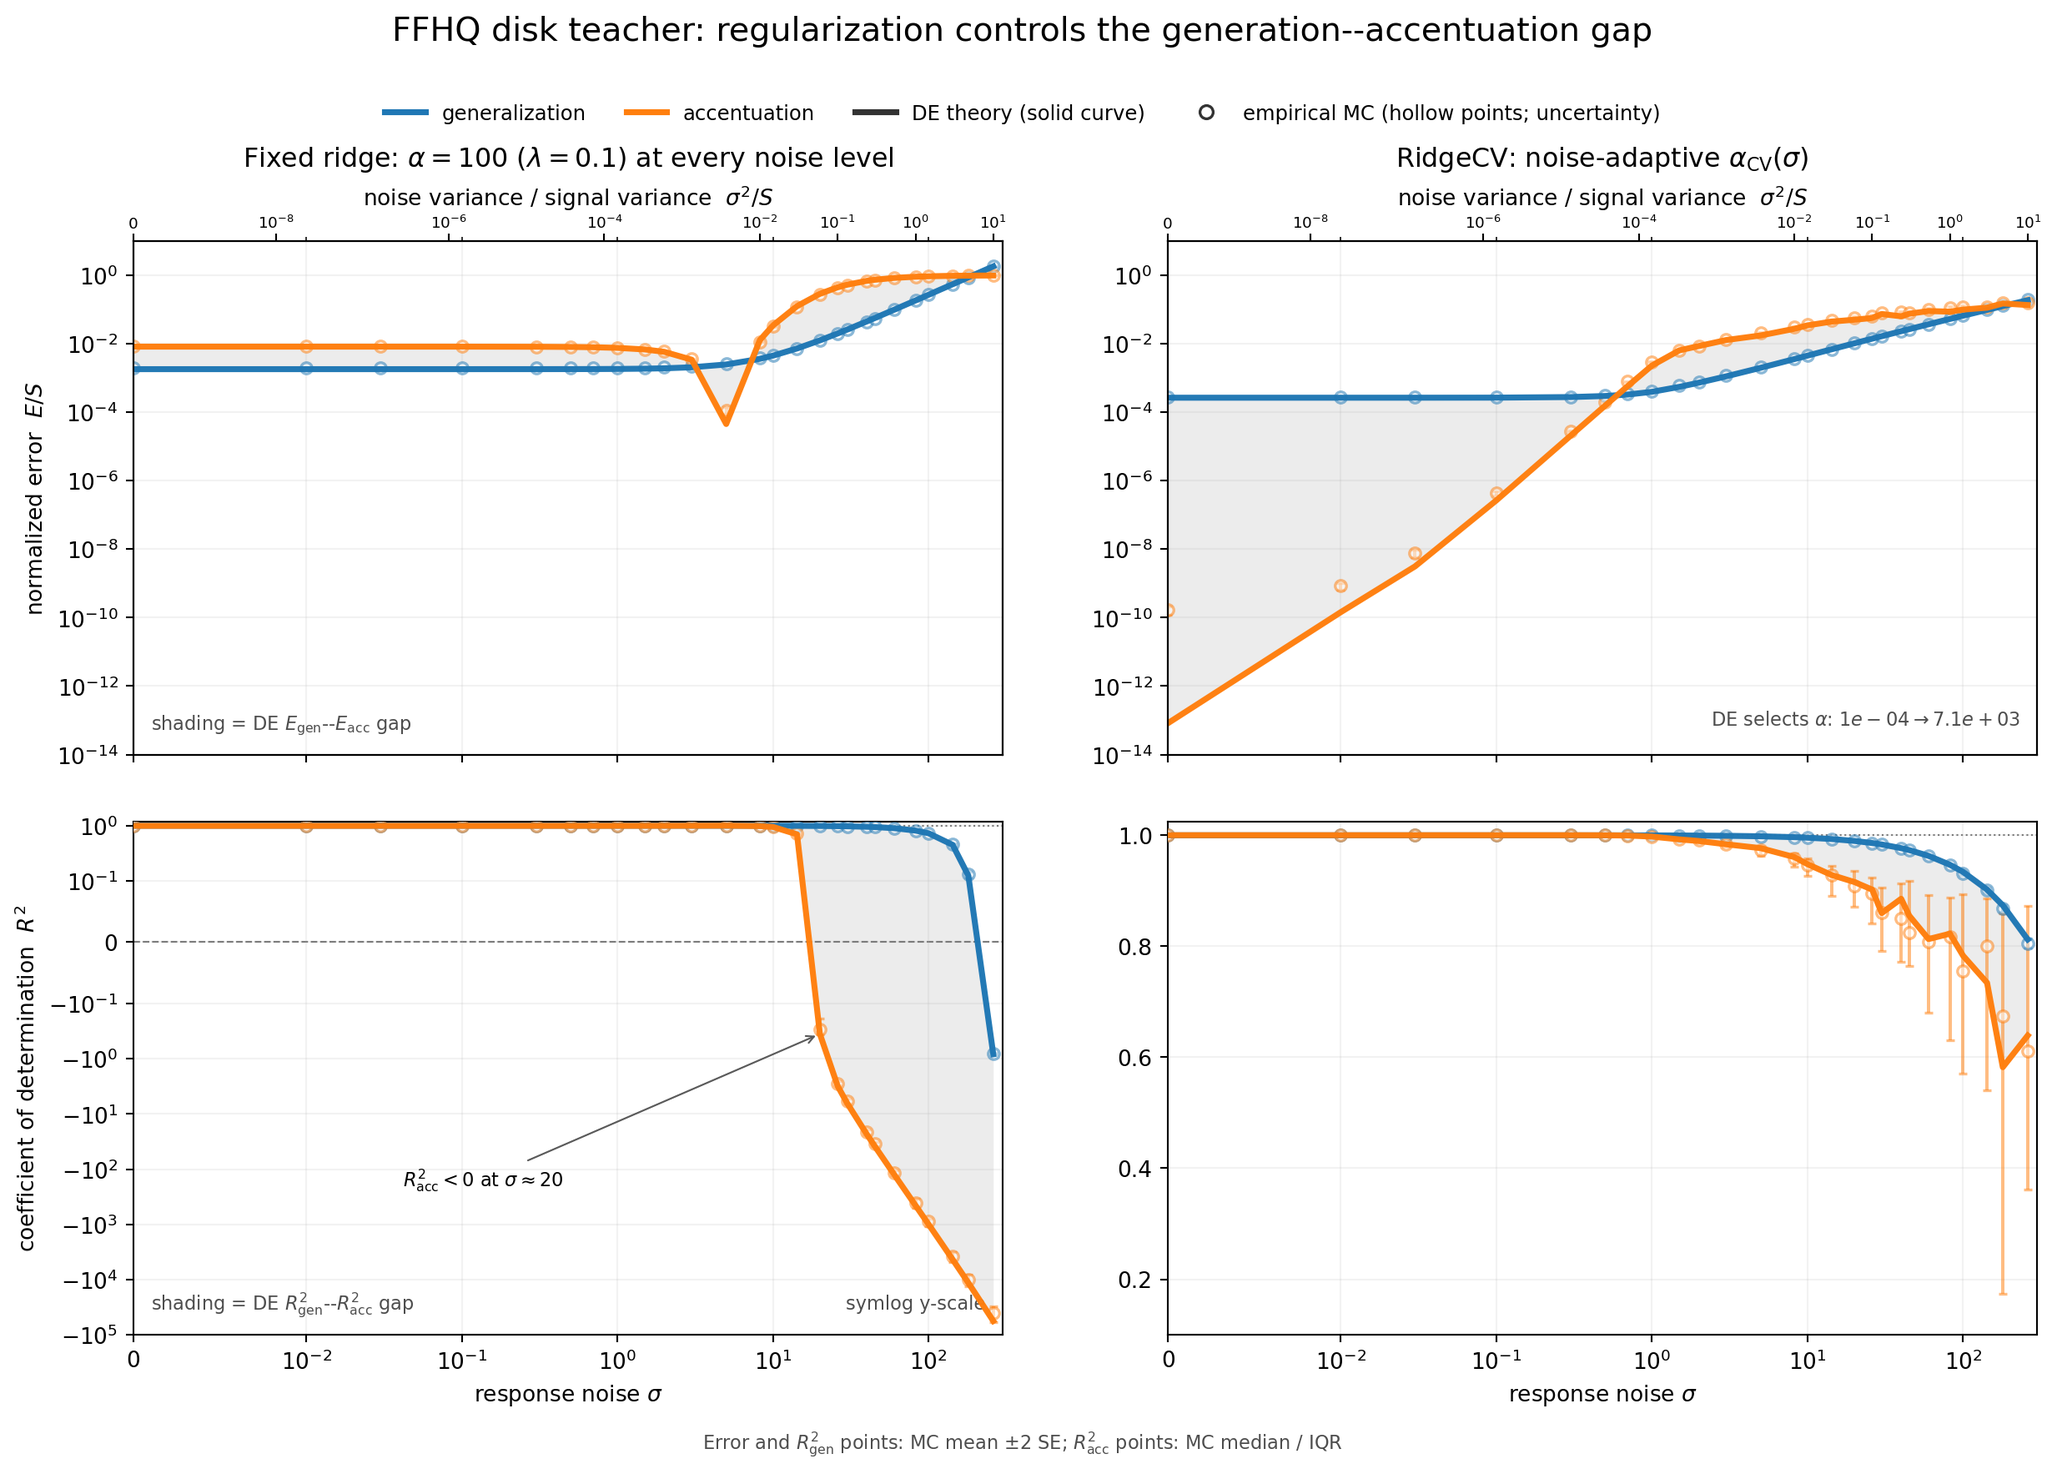
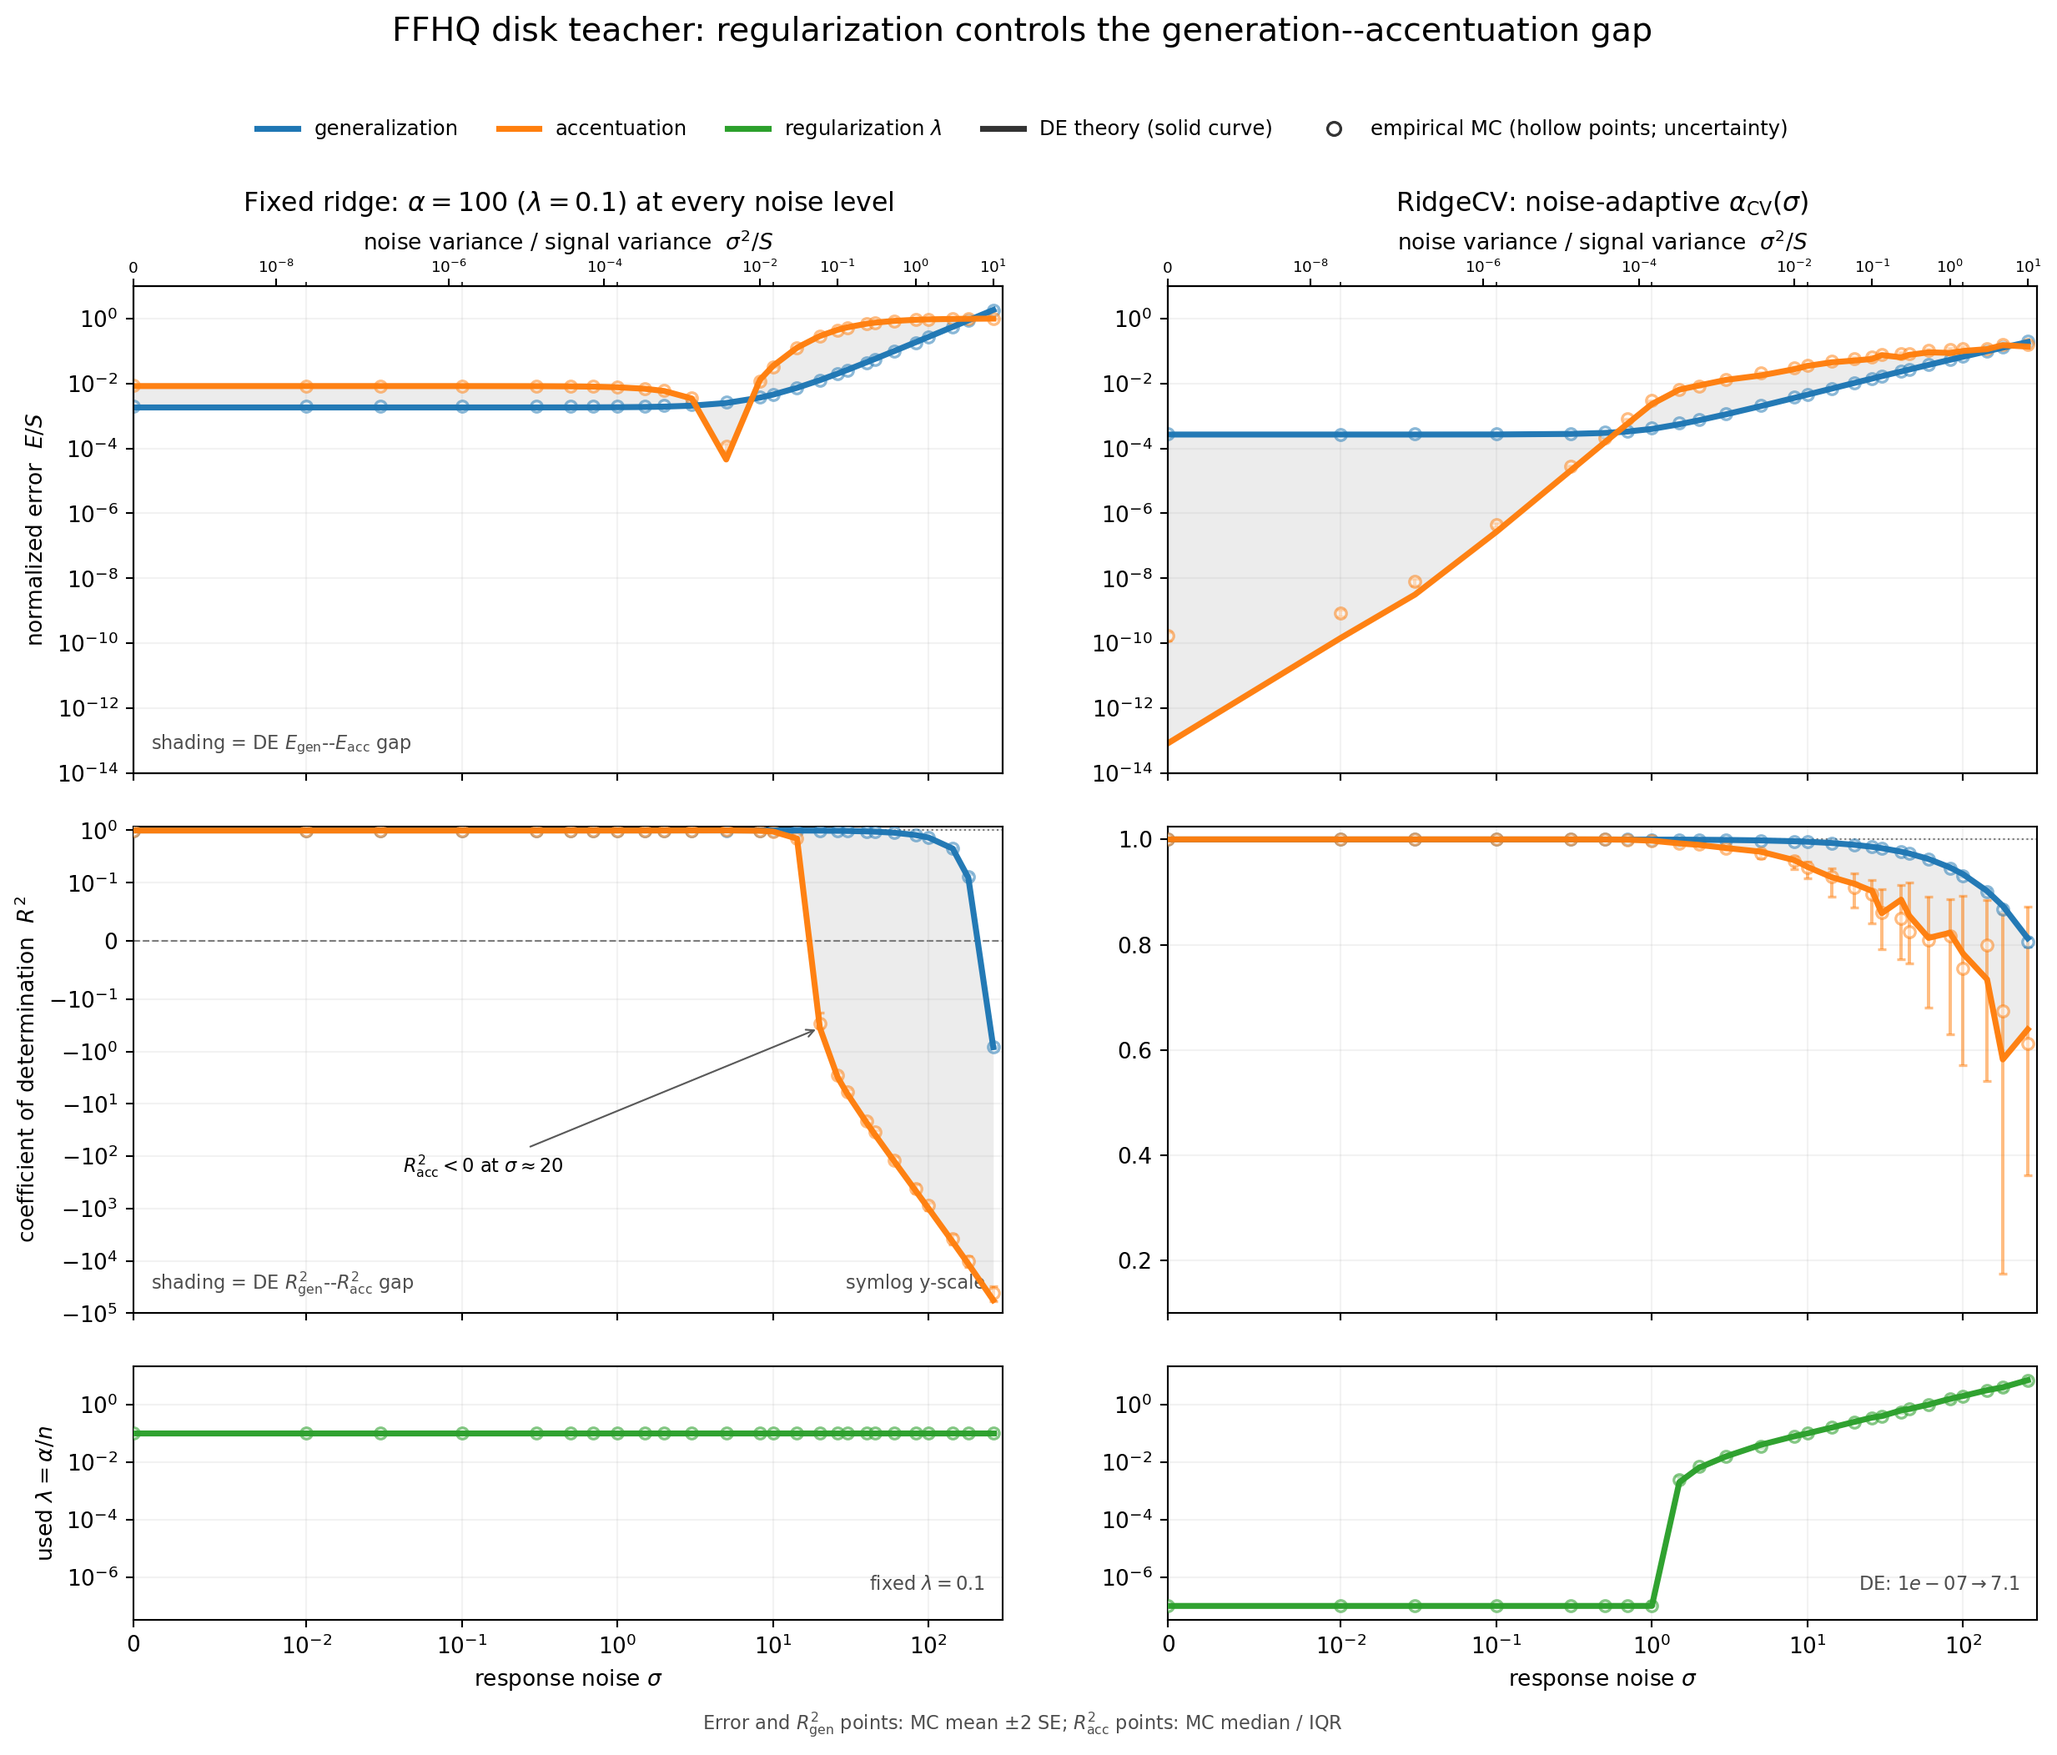
Add aligned regularization panels to gap plot

diff --git a/scripts/compare_ffhq_fixed_vs_cv.py b/scripts/compare_ffhq_fixed_vs_cv.py
@@ -320,9 +320,14 @@ def plot_policy_gap_comparison(
         signal: float, n: int) -> None:
     """Facet by ridge policy and expose generation--accentuation gaps."""
     fig, axes = plt.subplots(
-        2, 2, figsize=(13.2, 9.2), sharex='col',
-        gridspec_kw={'hspace': 0.13, 'wspace': 0.19})
+        3, 2, figsize=(13.2, 11.0), sharex='col',
+        gridspec_kw={
+            'height_ratios': (1, 1, 0.52),
+            'hspace': 0.13,
+            'wspace': 0.19,
+        })
     colors = {'gen': 'C0', 'acc': 'C1'}
+    lambda_color = 'C2'
     labels = {'gen': 'generalization', 'acc': 'accentuation'}
     policy_titles = {
         'fixed': (
@@ -332,10 +337,14 @@ def plot_policy_gap_comparison(
     }
     max_sigma = max(float(row['sigma']) for row in rows) * 1.15
     error_limits: list[float] = []
+    lambda_limits: list[float] = []
 
     for column, policy in enumerate(('fixed', 'cv')):
-        error_ax, r2_ax = axes[:, column]
+        error_ax, r2_ax, lambda_ax = axes[:, column]
         error_ax.set_title(policy_titles[policy], pad=34, fontsize=12)
+        policy_rows = sorted(
+            [row for row in rows if row['policy'] == policy],
+            key=lambda item: float(item['sigma']))
 
         error_series: dict[str, np.ndarray] = {}
         r2_series: dict[str, np.ndarray] = {}
@@ -375,16 +384,47 @@ def plot_policy_gap_comparison(
             sigma_policy, r2_series['gen'], r2_series['acc'],
             color='0.45', alpha=0.13, linewidth=0, zorder=1)
 
-        for ax in (error_ax, r2_ax):
+        theory_lambda = np.asarray(
+            [float(row['lambda']) for row in policy_rows])
+        if policy == 'cv':
+            mc_lambda = np.asarray(
+                [float(row['mc_alpha_cv_median']) / n
+                 for row in policy_rows])
+            mc_lambda_q25 = np.asarray(
+                [float(row['mc_alpha_cv_q25']) / n
+                 for row in policy_rows])
+            mc_lambda_q75 = np.asarray(
+                [float(row['mc_alpha_cv_q75']) / n
+                 for row in policy_rows])
+            lambda_uncertainty = np.vstack(
+                (mc_lambda - mc_lambda_q25,
+                 mc_lambda_q75 - mc_lambda))
+        else:
+            mc_lambda = theory_lambda.copy()
+            lambda_uncertainty = np.zeros_like(mc_lambda)
+        lambda_limits.extend(theory_lambda.tolist())
+        lambda_limits.extend(mc_lambda.tolist())
+        lambda_ax.plot(
+            sigma_policy, theory_lambda, color=lambda_color, lw=2.7,
+            alpha=0.98, zorder=4)
+        lambda_ax.errorbar(
+            sigma_policy, mc_lambda, yerr=lambda_uncertainty,
+            fmt='o', ls='none', color=lambda_color, ecolor=lambda_color,
+            alpha=0.58, ms=5.1, mfc='white', mec=lambda_color,
+            mew=1.25, capsize=2.0, zorder=3)
+
+        for ax in (error_ax, r2_ax, lambda_ax):
             ax.set_xscale('symlog', linthresh=0.01)
             ax.set_xlim(0, max_sigma)
             ax.grid(alpha=0.16, zorder=0)
         error_ax.set_yscale('log')
+        lambda_ax.set_yscale('log')
         error_ax.tick_params(labelbottom=False)
+        r2_ax.tick_params(labelbottom=False)
         add_noise_ratio_axis(error_ax, signal, max_sigma)
         r2_ax.axhline(1, color='0.45', lw=0.8, ls=':', zorder=0)
         r2_ax.axhline(0, color='0.45', lw=0.8, ls='--', zorder=0)
-        r2_ax.set_xlabel(r'response noise $\sigma$')
+        lambda_ax.set_xlabel(r'response noise $\sigma$')
 
         if policy == 'fixed':
             r2_ax.set_yscale('symlog', linthresh=0.1)
@@ -402,26 +442,30 @@ def plot_policy_gap_comparison(
                         'arrowstyle': '->', 'lw': 0.8, 'color': '0.35'})
         else:
             r2_ax.set_ylim(0.1, 1.025)
-            cv_rows = sorted(
-                [row for row in rows if row['policy'] == 'cv'],
-                key=lambda item: float(item['sigma']))
-            alpha_min = min(float(row['alpha']) for row in cv_rows)
-            alpha_max = max(float(row['alpha']) for row in cv_rows)
-            error_ax.text(
-                0.98, 0.05,
-                rf'DE selects $\alpha$: ${alpha_min:.0e}\rightarrow'
-                rf'{alpha_max:.2g}$',
-                transform=error_ax.transAxes, ha='right', va='bottom',
-                fontsize=8.5, color='0.3')
+
+        lambda_ax.text(
+            0.98, 0.10,
+            (rf'fixed $\lambda={theory_lambda[0]:g}$'
+             if policy == 'fixed'
+             else rf'DE: ${theory_lambda[0]:.0e}\rightarrow'
+                  rf'{theory_lambda[-1]:.2g}$'),
+            transform=lambda_ax.transAxes, ha='right', va='bottom',
+            fontsize=8.5, color='0.3')
 
     positive = np.asarray(error_limits)
     error_ymin = 10 ** np.floor(np.log10(positive.min()))
     error_ymax = 10 ** np.ceil(np.log10(positive.max()))
     for ax in axes[0]:
         ax.set_ylim(error_ymin, error_ymax)
+    positive_lambda = np.asarray(lambda_limits)
+    lambda_ymin = positive_lambda.min() / 3
+    lambda_ymax = positive_lambda.max() * 3
+    for ax in axes[2]:
+        ax.set_ylim(lambda_ymin, lambda_ymax)
 
     axes[0, 0].set_ylabel(r'normalized error  $E/S$')
     axes[1, 0].set_ylabel(r'coefficient of determination  $R^2$')
+    axes[2, 0].set_ylabel(r'used $\lambda=\alpha/n$')
     axes[0, 0].text(
         0.02, 0.05, r'shading = DE $E_{\rm gen}$--$E_{\rm acc}$ gap',
         transform=axes[0, 0].transAxes, fontsize=8.5, color='0.3')
@@ -436,6 +480,8 @@ def plot_policy_gap_comparison(
         Line2D([0], [0], color=colors[path], lw=2.7,
                label=labels[path]) for path in ('gen', 'acc')
     ] + [
+        Line2D([0], [0], color=lambda_color, lw=2.7,
+               label=r'regularization $\lambda$'),
         Line2D([0], [0], color='0.2', lw=2.7,
                label='DE theory (solid curve)'),
         Line2D([0], [0], color='0.2', marker='o', ls='none',
@@ -443,7 +489,7 @@ def plot_policy_gap_comparison(
                label=r'empirical MC (hollow points; uncertainty)'),
     ]
     fig.legend(
-        handles=legend_handles, loc='upper center', ncol=4,
+        handles=legend_handles, loc='upper center', ncol=5,
         frameon=False, fontsize=9.2, bbox_to_anchor=(0.5, 0.947))
     fig.suptitle(
         'FFHQ disk teacher: regularization controls the '
@@ -454,7 +500,7 @@ def plot_policy_gap_comparison(
         r'$R^2_{\rm acc}$ points: MC median / IQR',
         ha='center', fontsize=8.5, color='0.3')
     fig.subplots_adjust(
-        left=0.075, right=0.985, bottom=0.09, top=0.84,
+        left=0.075, right=0.985, bottom=0.075, top=0.84,
         hspace=0.14, wspace=0.19)
     GAP_FIGURE_PATH.parent.mkdir(parents=True, exist_ok=True)
     fig.savefig(GAP_FIGURE_PATH, dpi=190, bbox_inches='tight')
